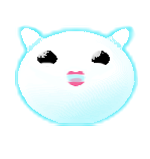
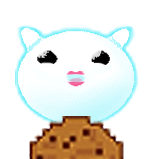
Acciones del jugador inician animaciones

Changed region(s): [[0.1867, 0.7296, 0.8267, 1.0]]

diff --git a/src/Criatura.js b/src/Criatura.js
@@ -57,12 +57,53 @@ import cagando2 from './img/cagando2.png';
 import cagando3 from './img/cagando3.png';
 import cagando4 from './img/cagando4.png';
 import cagando5 from './img/cagando5.png';
+import cagando6 from './img/cagando6.png';
+import cagando7 from './img/cagando7.png';
+import cagando8 from './img/cagando8.png';
+import cagando9 from './img/cagando9.png';
+import cagando10 from './img/cagando10.png';
 
 import comerGalleta0 from './img/comerGalleta0.png';
 import comerGalleta1 from './img/comerGalleta1.png';
 import comerGalleta2 from './img/comerGalleta2.png';
 import comerGalleta3 from './img/comerGalleta3.png';
 import comerGalleta4 from './img/comerGalleta4.png';
+import comiendoCaramelo0 from './img/comiendoCaramelo0.png';
+import comiendoCaramelo1 from './img/comiendoCaramelo1.png';
+import comiendoCaramelo2 from './img/comiendoCaramelo2.png';
+import comiendoCaramelo3 from './img/comiendoCaramelo3.png';
+import comiendoCaramelo4 from './img/comiendoCaramelo4.png';
+import comiendoCaramelo5 from './img/comiendoCaramelo5.png';
+import comiendoCaramelo6 from './img/comiendoCaramelo6.png';
+import comerHelado0 from './img/comerHelado1.png';
+import comerHelado1 from './img/comerHelado1.png';
+import comerHelado2 from './img/comerHelado2.png';
+import comerHelado3 from './img/comerHelado3.png';
+import comerHelado4 from './img/comerHelado4.png';
+import comerHelado5 from './img/comerHelado5.png';
+import medicinaAzul0 from './img/medicinaAzul0.png';
+import medicinaAzul1 from './img/medicinaAzul1.png';
+import medicinaAzul2 from './img/medicinaAzul2.png';
+import medicinaAzul3 from './img/medicinaAzul3.png';
+import medicinaAzul4 from './img/medicinaAzul4.png';
+import medicinaAzul5 from './img/medicinaAzul5.png';
+import medicinaAzul6 from './img/medicinaAzul6.png';
+import medicinaAzul7 from './img/medicinaAzul7.png';
+import medicinaVerde0 from './img/medicinaVerde0.png';
+import medicinaVerde1 from './img/medicinaVerde1.png';
+import medicinaVerde2 from './img/medicinaVerde2.png';
+import medicinaVerde3 from './img/medicinaVerde3.png';
+import medicinaVerde4 from './img/medicinaVerde4.png';
+import medicinaVerde5 from './img/medicinaVerde5.png';
+import medicinaVerde6 from './img/medicinaVerde6.png';
+import medicinaVerde7 from './img/medicinaVerde7.png';
+import medicinaRoja0 from './img/medicinaRoja0.png';
+import medicinaRoja1 from './img/medicinaRoja1.png';
+import medicinaRoja2 from './img/medicinaRoja2.png';
+import medicinaRoja3 from './img/medicinaRoja3.png';
+import medicinaRoja4 from './img/medicinaRoja4.png';
+import medicinaRoja5 from './img/medicinaRoja5.png';
+import medicinaRoja6 from './img/medicinaRoja6.png';
 
 
 const velAnimacion = 250;
@@ -80,6 +121,7 @@ class Criatura extends Component {
       super(props)
       this.state = {
         cont: 0,
+        mensajeInicial: <p>Esperando a que nazca...<br />¿Tienes ya un nombre?</p>,
         nombre: "Maskotin",
 
         edad: 0,
@@ -93,7 +135,7 @@ class Criatura extends Component {
         aburrimiento: 0,
         enfermedad: 0,
         cansancio: 0,
-        cagalera: 100,
+        cagalera: 0,
         
         accion: "Encubando huevo", //Encubando huevo/Tranquilo
         animList: [],
@@ -120,6 +162,7 @@ class Criatura extends Component {
           cansancio: this.state.accion == "Dormido" ? this.state.cansancio-0.5:this.state.cansancio+0.01,
           cagalera: this.state.accion == "Evacuando" && this.state.anim == this.state.animList.length-1 ? 0: this.state.cagalera,
 
+
         }); 
       }, velAnimacion);
    
@@ -143,7 +186,7 @@ class Criatura extends Component {
             <fondo><this.Animar /></fondo>
             <h2>{this.state.accion}</h2> 
             <footer>
-              {this.state.navAbierto ? <this.Navegador />:<p>Esperando a que nazca...<br />¿Tienes ya un nombre?</p>}
+              {this.state.navAbierto ? <this.Navegador />:this.state.mensajeInicial}
             </footer>
             
         </div>
@@ -244,6 +287,11 @@ class Criatura extends Component {
         }
         if(tipo == "Pócima verde"){
           this.setState({
+            accion: "Tomando medicina verde",
+            animList: [medicinaVerde0,medicinaVerde1,medicinaVerde2,medicinaVerde3,medicinaVerde4,medicinaVerde4,medicinaVerde5,medicinaVerde6,medicinaVerde6,medicinaVerde7],
+            mensajeInicial: <p>Por favor...<br />¡REPUGNANTE!</p>,
+            navAbierto: false,
+            anim:0,
             edad: this.state.edad-0.2,
             tam: this.state.tam-0.2,
             hambre: this.state.hambre+20,
@@ -257,6 +305,11 @@ class Criatura extends Component {
         }
         if(tipo == "Pócima roja"){
           this.setState({
+            accion: "Tomando medicina roja",
+            animList: [medicinaRoja0,medicinaRoja1,medicinaRoja1,medicinaRoja2,medicinaRoja3,medicinaRoja4,medicinaRoja5,medicinaRoja6,medicinaRoja5,medicinaRoja3,medicinaRoja3,medicinaRoja3,medicinaRoja3,medicinaRoja3,medicinaRoja3,medicinaRoja3],
+            mensajeInicial: <p>UUUUYYYY!!!<br />Que extraña sensación!</p>,
+            navAbierto: false,
+            anim:0,
             edad: this.state.edad+0.3,
             tam: this.state.tam+0.2,
             hambre: this.state.hambre-10,
@@ -271,6 +324,11 @@ class Criatura extends Component {
         }
         if(tipo == "Pócima azul"){
           this.setState({
+            accion: "Tomando medicina azul",
+            animList: [medicinaAzul0,medicinaAzul1,medicinaAzul2,medicinaAzul3,medicinaAzul4,medicinaAzul5,medicinaAzul6,medicinaAzul4,medicinaAzul7,medicinaAzul7],
+            mensajeInicial: <p>!!!BUAG!!!<br />¡¿Que será esto?!</p>,
+            navAbierto: false,
+            anim:0,
             edad: this.state.edad-0.3,
             calor: this.state.calor-1,
             infelicidad: this.state.infelicidad-30,
@@ -285,7 +343,10 @@ class Criatura extends Component {
           
           this.setState({
             accion: "Comiendo galleta",
-            animList: [comerGalleta0,comerGalleta1,comerGalleta2,comerGalleta3,comerGalleta4,comerGalleta0],
+            animList: [comerGalleta0,comerGalleta1,comerGalleta2,comerGalleta3,comerGalleta4,comerGalleta4],
+            mensajeInicial: <p>!!!GALLETAS!!!<br />¡Ricas galletas!</p>,
+            navAbierto: false,
+            anim:0,
             tam: this.state.tam+0.1,
             hambre: this.state.hambre-60,
             calor: this.state.calor+2,
@@ -297,6 +358,11 @@ class Criatura extends Component {
         }
         if(tipo == "Helado"){
           this.setState({
+            accion: "Comiendo helado",
+            animList: [comerHelado0,comerHelado1,comerHelado2,comerHelado3,comerHelado4,comerHelado5,comerHelado5],
+            mensajeInicial: <p>!Fresquito!<br />¡Muy fresquito!</p>,
+            navAbierto: false,
+            anim:0,
             edad: this.state.edad+0.02,
             hambre: this.state.hambre-2,
             calor: this.state.calor-30,
@@ -309,6 +375,11 @@ class Criatura extends Component {
         }
         if(tipo == "Caramelo"){
           this.setState({
+            accion: "Comiendo caramelo",
+            animList: [comiendoCaramelo0,comiendoCaramelo1,comiendoCaramelo2,comiendoCaramelo3,comiendoCaramelo4,comiendoCaramelo5,comiendoCaramelo6,comiendoCaramelo6],
+            mensajeInicial: <p>!¿Un caramelo?!<br />¡UN CARAMELOOO!</p>,
+            navAbierto: false,
+            anim:0,
             edad: this.state.edad+0.02,
             hambre: this.state.hambre-1,
             infelicidad: this.state.infelicidad-25,
@@ -402,7 +473,7 @@ class Criatura extends Component {
         this.state.animList=[idle2,idle2,idle2,idle0,idle1,idle2,idle2,idle0,idle1,idle0,idle1,idle0,idle1,idle0,idle2,idle2];
 
 
-      }else if(Math.random()>0.7 && this.state.navAbierto==true){
+      }else if(this.state.navAbierto==true){
 
         //Añadir estados
         if(this.state.hambre>=90){ this.cambioAccion("Hambriento", [hambriento0,hambriento1]);}
@@ -411,30 +482,34 @@ class Criatura extends Component {
         else if(this.state.aburrimiento>=90){ this.cambioAccion("Aburrido", [aburrido0,aburrido1]);}
         else if(this.state.enfermedad>=90){ this.cambioAccion("Enfermo", [enfermo0,enfermo0,enfermo1,enfermo1,enfermo1]);}
         else if(this.state.cansancio>=90){ this.cambioAccion("Dormido", [dormir0,dormir0,dormir1,dormir2,dormir2]);}
-        else if(this.state.cagalera>=90){ this.cambioAccion("Evacuando", [cagando0,cagando0,cagando0,cagando1,cagando0,cagando0,cagando2,cagando2,cagando2,cagando3,cagando4,cagando4,cagando5,cagando5,cagando5,cagando5,cagando4]);}
+        else if(this.state.cagalera>=90){ this.cambioAccion("Evacuando", [cagando0,cagando0,cagando0,cagando1,cagando0,cagando0,cagando2,cagando2,cagando2,cagando3,cagando4,cagando4,cagando5,cagando5,cagando5,cagando5,cagando4,cagando5,cagando6,cagando7,cagando8,cagando9,cagando10,cagando9,cagando10,cagando9,cagando10,cagando9,cagando10,cagando9]);}
         else{this.cambioAccion("Tranquilo", [idle0,idle1,idle0,idle1,idle2]);}       
         
 
       
        //Quitar estados
-      if(this.state.hambre<90 && this.accion=="Hambriento"){ this.cambioAccion("Tranquilo");}
-      if(this.state.calor<90 && this.accion=="Acalorado"){  this.cambioAccion("Tranquilo");}
-      if(this.state.infelicidad<90 && this.accion=="Triste"){  this.cambioAccion("Tranquilo");}
-      if(this.state.aburrimiento<90 && this.accion=="Aburrido"){  this.cambioAccion("Tranquilo");}
-      if(this.state.enfermedad<90 && this.accion=="Enfermo"){  this.cambioAccion("Tranquilo");}
-      if(this.state.cansancio<90 && this.accion=="Dormido"){  this.cambioAccion("Tranquilo");}
-      if(this.state.cagalera<90 && this.accion=="Evacuando"){  this.cambioAccion("Tranquilo");}
+      if(this.state.hambre<90 && this.state.accion=="Hambriento"){ this.cambioAccion("Tranquilo");}
+      if(this.state.calor<50 && this.state.accion=="Acalorado"){  this.cambioAccion("Tranquilo");}
+      if(this.state.infelicidad<50 && this.state.accion=="Triste"){  this.cambioAccion("Tranquilo");}
+      if(this.state.aburrimiento<90 && this.state.accion=="Aburrido"){  this.cambioAccion("Tranquilo");}
+      if(this.state.enfermedad<50 && this.state.accion=="Enfermo"){  this.cambioAccion("Tranquilo");}
+      if(this.state.cansancio<10 && this.state.accion=="Dormido"){  this.cambioAccion("Tranquilo");}
+      if(this.state.cagalera<50 && this.state.accion=="Evacuando"){  this.cambioAccion("Tranquilo");}
       }
+
+      let a = this.state.accion;
+      if((a=="Comiendo galleta" || a=="Comiendo caramelo"|| a=="Comiendo helado" || a=="Tomando medicina azul"|| a=="Tomando medicina verde"|| a=="Tomando medicina roja")
+      && this.state.anim == this.state.animList.length-1){ this.state.navAbierto=true; this.cambioAccion("Tranquilo");this.state.anim=0; }
 
       this.state.img= this.state.animList[this.state.anim];
       return <img src={this.state.img} alt= {this.state.accion} />
       
     }
 
-    cambioAccion (tipo,arr=[idle0,idle1]){
-      this.state.animList= arr;
+    cambioAccion (tipo,arr=[idle0,idle1,idle0,idle1,idle2]){
+ 
       this.state.accion = tipo;
-      //this.state.anim=0;
+      this.state.animList= arr;
     }
 
   }
